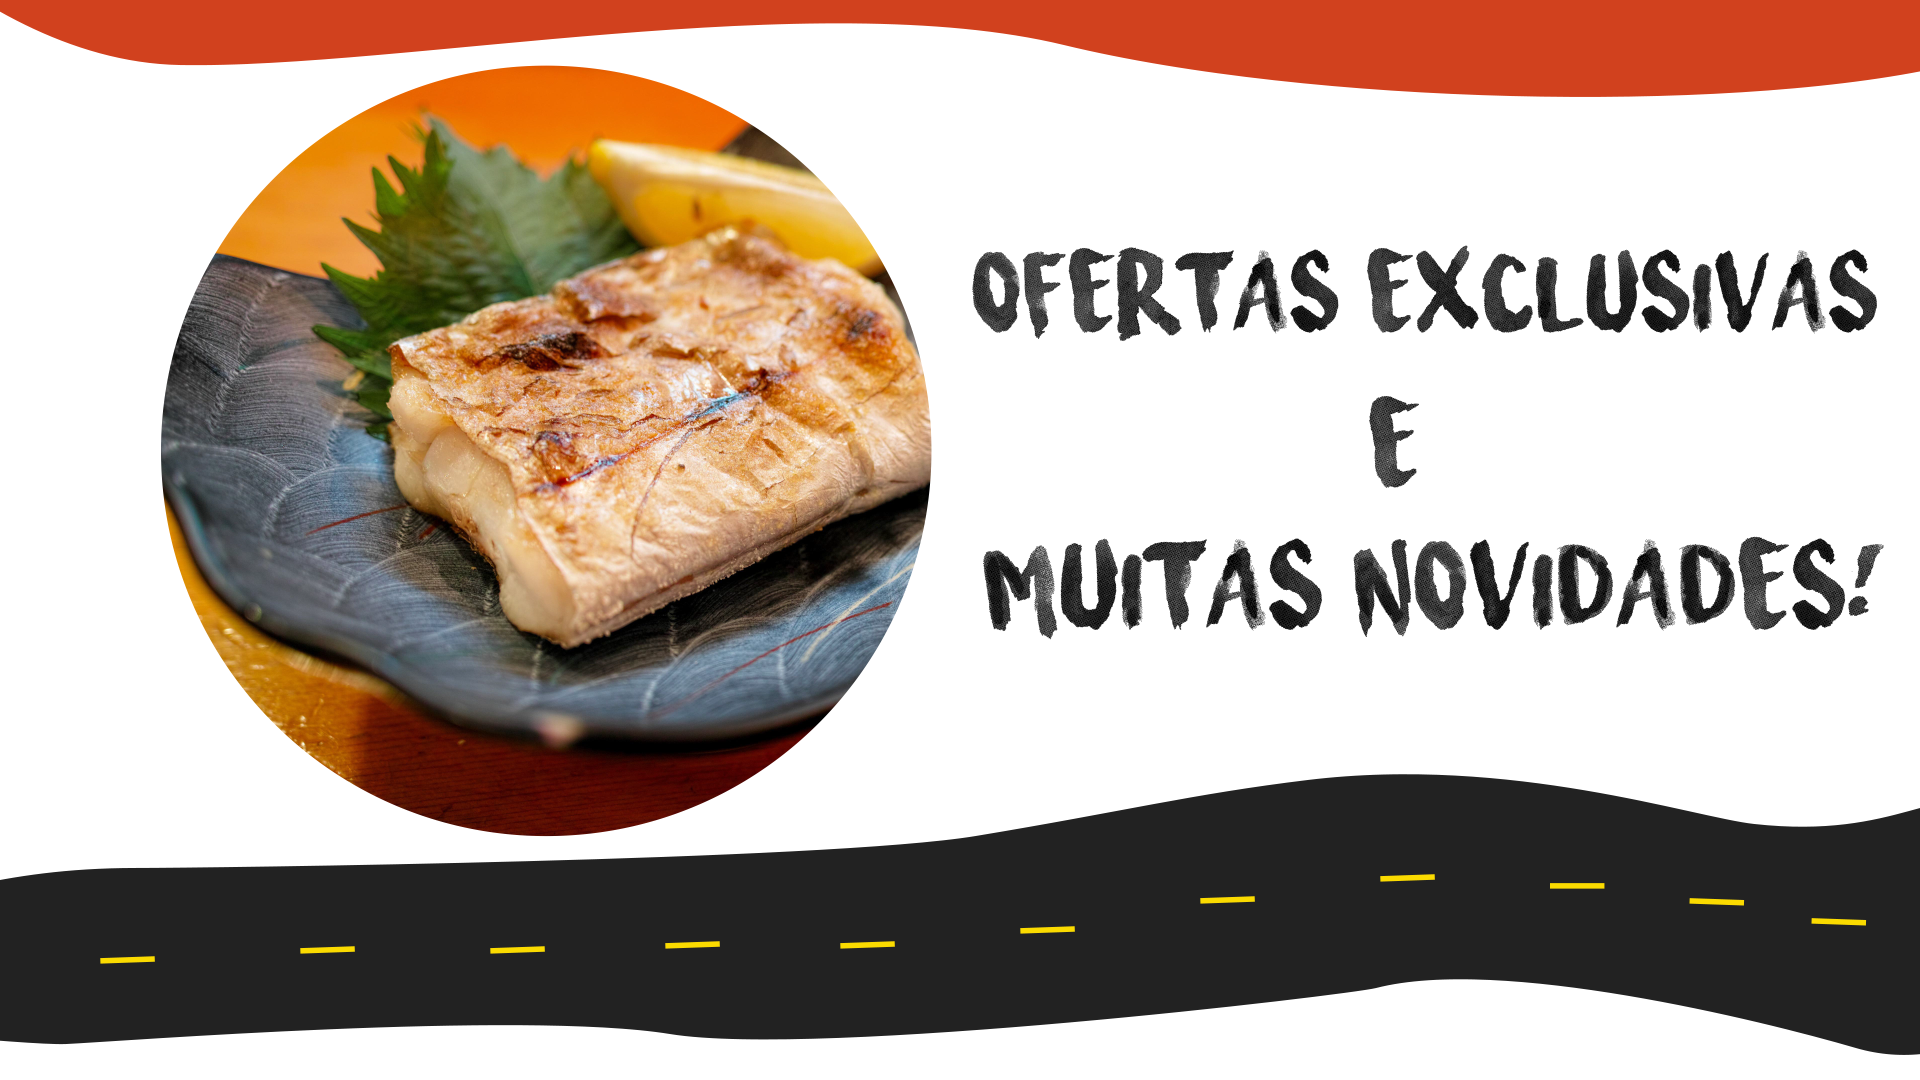
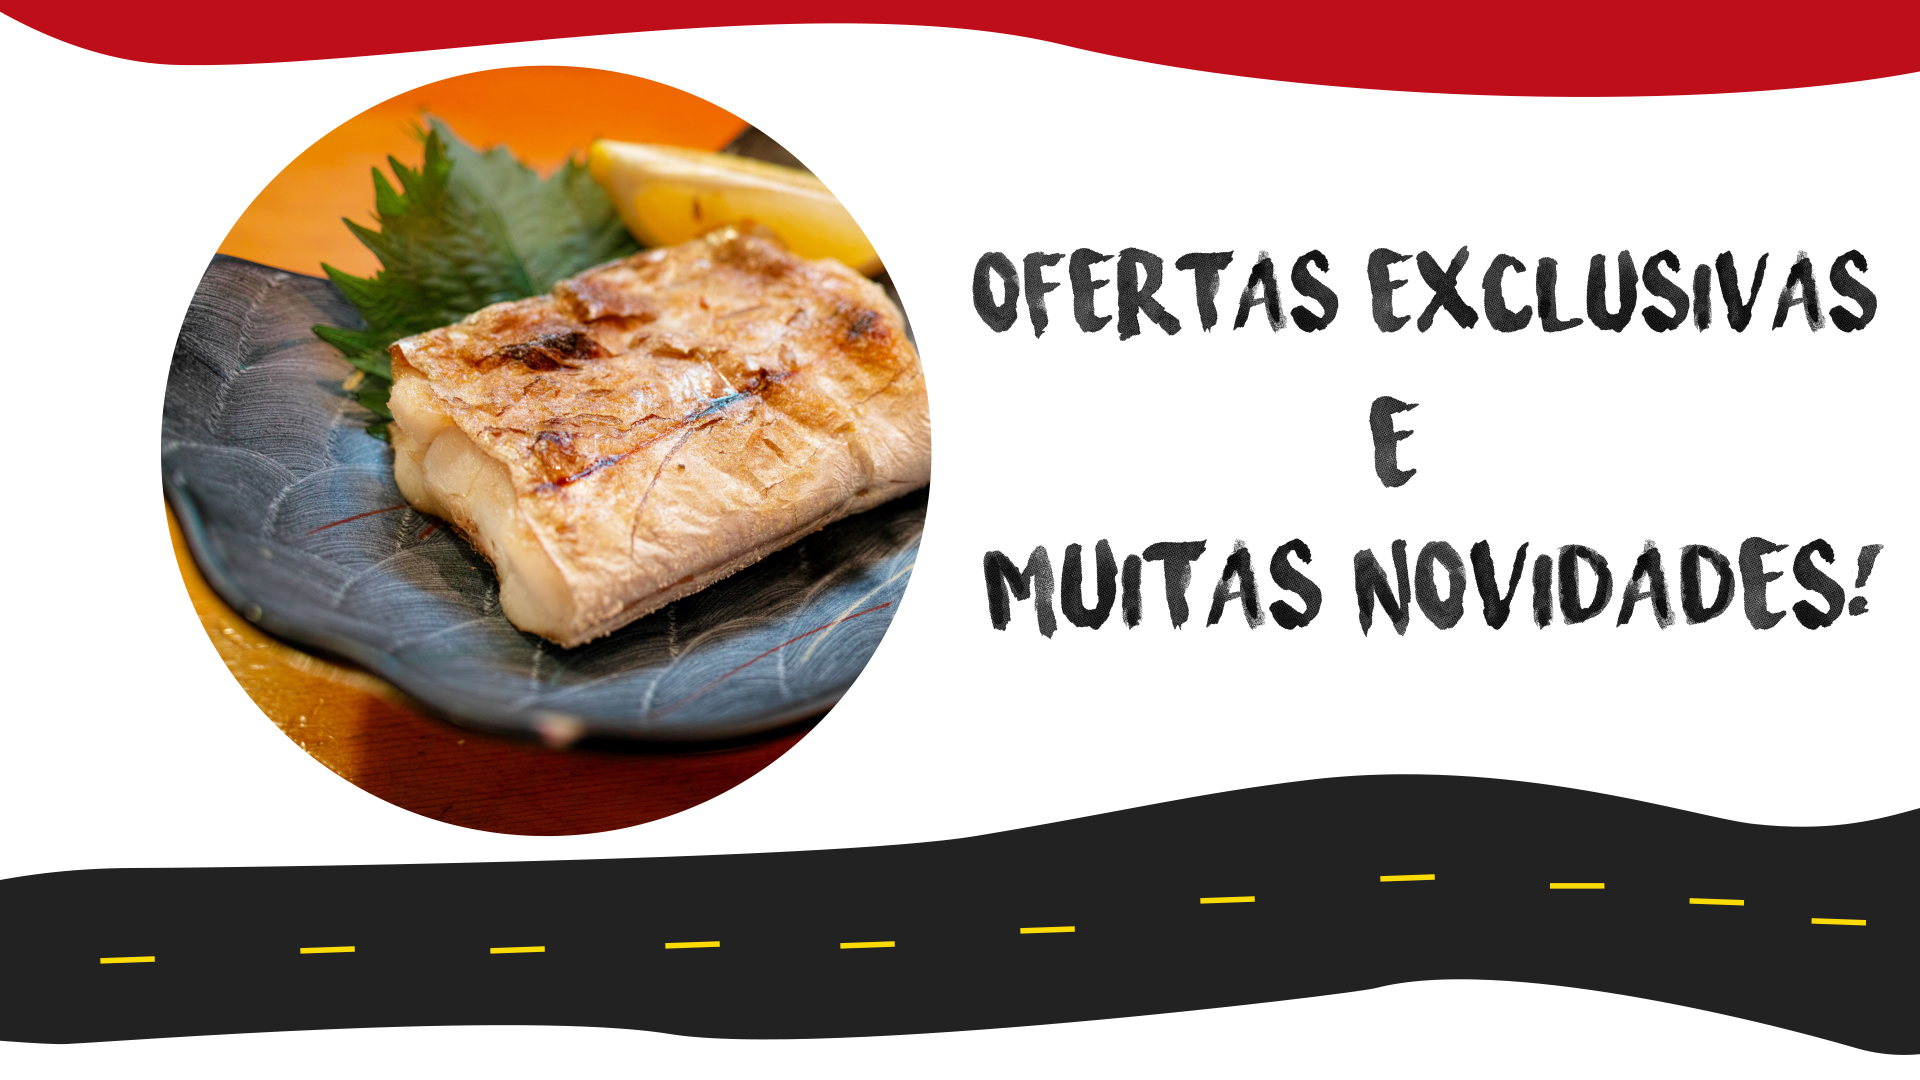
projeto finalizado parte web e mobile

Changed region(s): [[0.0, 0.0, 1.0, 0.0917]]

diff --git a/components/Navbar.jsx b/components/Navbar.jsx
@@ -1,7 +1,10 @@
 import styles from "../styles/Navbar.module.css"
 import Image from "next/image";
+import React from 'react';
+import { useState } from "react";
 
 const Navbar = () => {
+    const [open, setOpen] = useState(false)
     return (
         <div className={styles.container}>
             <div className={styles.item}>
@@ -24,12 +27,20 @@ const Navbar = () => {
                     <li className={styles.listItem}><a href="/contato">Fale conosco</a></li>
                 </ul>
             </div>
-            <div className={styles.item}>
-                <div className={styles.cart}>
-                    <Image src="/img/cart.png" alt="" width="30px" height="30px" />
-                    <div className={styles.counter}>2</div>
-                </div>
+            <div className={styles.hamburguer} onClick={() => setOpen(!open)}>
+                <div className={styles.line}></div>
+                <div className={styles.line}></div>
+                <div className={styles.line}></div>
             </div>
+            <ul onClick={()=>setOpen(false)} className={styles.menu} style={{right: open ? "0px" : "-50vw"}}>
+            <li className={styles.listItem}><a href="/cardapio">Cardápio</a></li>
+                    <li className={styles.menuItem}><a href="/restaurantes">Restaurantes</a></li>
+                    <li className={styles.menuItem}><a href="/delivery">Delivery</a></li>
+                    <li className={styles.menuItem}><a href="/lancamentos">Lançamentos</a></li>
+                    <li className={styles.menuItem}><a href="/promocoes">Promoções</a></li>
+                    <li className={styles.menuItem}><a href="/contato">Fale conosco</a></li>
+                    <li className={styles.menuItem}><a href="/">Início</a></li>
+            </ul>
         </div>
     );
 };

diff --git a/styles/Navbar.module.css b/styles/Navbar.module.css
@@ -1,13 +1,14 @@
 .container{
     height: 100px;
     padding: 0px 50px;
-    background-color: #d1411e;
+    background-color: #be0e1a;
     display: flex;
     align-items: center;
     justify-content: space-between;
     position: sticky;
     top: 0;
-    z-index: 999;
+    z-index: 1;
+    position: relative;
 }
 
 .item{
@@ -77,7 +78,16 @@
     align-items: center;
     justify-content: center;
     font-weight: bold;
-    color: #d1411e;
+    color: #be0e1a;
+}
+
+.hamburguer{
+    display: none;
+}
+
+.menu{
+    display: none;
+    z-index: 999;
 }
 
 @media screen and (max-width: 480px){
@@ -87,5 +97,39 @@
 
     .item:nth-child(1){
         flex: 3;
+    }
+
+    .hamburguer{
+        display: flex;
+        flex-direction: column;
+        justify-content: space-between;
+        width: 25px;
+        height: 25px;
+        cursor: pointer;
+    }
+
+    .line{
+        width: 100%;
+        height: 3px;
+        background-color: #fff;
+    }
+
+    .menu{
+        position: fixed;
+        height: calc(100vh - 50px);
+        width: 40vw;
+        background-color: #be0e1a;
+        top: 50px;
+        margin: 0;
+        padding: 0;
+        font-weight: bold;
+        color: white;
+        list-style: none;
+        display: flex;
+        flex-direction: column;
+        align-items: center;
+        justify-content: space-around;
+        z-index: -1;
+        transition: all 1s ease;
     }
 }

diff --git a/styles/Contato.module.css b/styles/Contato.module.css
@@ -26,7 +26,7 @@
     display: flex;
     justify-content: center;
     align-items: center;
-    background-color: #fde3a7d7;
+    background-color: #daccaed7;
     padding: 1rem;
 }
 
@@ -57,14 +57,14 @@
 
 .loginbutton button{
     border: none;
-    background-color: #d1411e;
+    background-color: #be0e1a;
     padding: 0.4rem 1rem;
     border-radius: 5px;
     cursor: pointer;
 }
 
 .loginbutton button:hover {
-    background-color: #e93612;
+    background-color: #db1724;
 }
 
 .loginbutton button a {
@@ -78,7 +78,7 @@
     display: block;
     width: 5rem;
     height: 0.3rem;
-    background-color: #d1411e;
+    background-color: #be0e1a;
     margin: 0 auto;
     position: absolute;
     border-radius: 10px;
@@ -110,7 +110,7 @@
 }
 
 .inputbox input:focus-visible {
-    outline: 1px solid #d1411e;
+    outline: 1px solid #be0e1a;
 }
 
 .inputbox label, .gendertitle h6 {
@@ -149,14 +149,14 @@
     width: 100%;
     margin-top: 2.5rem;
     border: none;
-    background-color: #d1411e;
+    background-color: #be0e1a;
     padding: 0.62rem;
     border-radius: 5px;
     cursor: pointer;
 }
 
 .continuebutton button:hover{
-    background-color: #e93612;
+    background-color: #db1724;
 }
 
 .continuebutton button a{

diff --git a/styles/Product.module.css b/styles/Product.module.css
@@ -23,10 +23,10 @@
 }
 
 .price{
-    color: #d1411e;
+    color: #be0e1a;
     font-size: 24px;
     font-weight: 400;
-    border-bottom: 1px solid #d1411e;
+    border-bottom: 1px solid #be0e1a;
 }
 
 .sizes{
@@ -89,7 +89,7 @@
 .button{
     height: 30px;
     margin-left: 10px;
-    background-color: #d1411e;
+    background-color: #be0e1a;
     color: #fff;
     border: none;
     font-weight: 500;

diff --git a/styles/Delivery.module.css b/styles/Delivery.module.css
@@ -23,7 +23,7 @@
 }
 
 .buttonDelivery{
-    background-color: #d1411e;
+    background-color: #be0e1a;
     width: 450px;
     height: 45px;
     color: white;
@@ -32,6 +32,10 @@
     cursor: pointer;
     border-radius: 10px;
     border: none;
+}
+
+.buttonDelivery button:hover{
+    background-color: #cf121e;
 }
 
 .imagemDelivery{

diff --git a/styles/Featured.module.css b/styles/Featured.module.css
@@ -1,6 +1,6 @@
 .container{
     height: calc(100vh - 100px);
-    background-color: #d1411e;
+    background-color: #be0e1a;
     overflow: hidden;
     position: relative;
 }

diff --git a/styles/PizzaCard.module.css b/styles/PizzaCard.module.css
@@ -12,7 +12,7 @@
 .title{
     font-size: 18px;
     font-weight: bold;
-    color: #d1411e;
+    color: #be0e1a;
 }
 
 .price{

diff --git a/styles/Cart.module.css b/styles/Cart.module.css
@@ -24,7 +24,7 @@
 
 .name{
     font-weight: 500;
-    color: #d1411e;
+    color: #be0e1a;
     font-size: 18px;
 }
 
